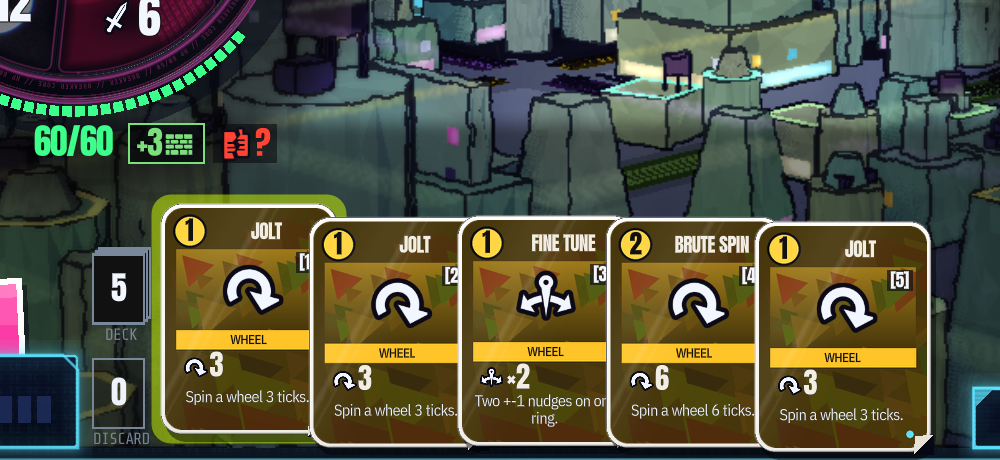
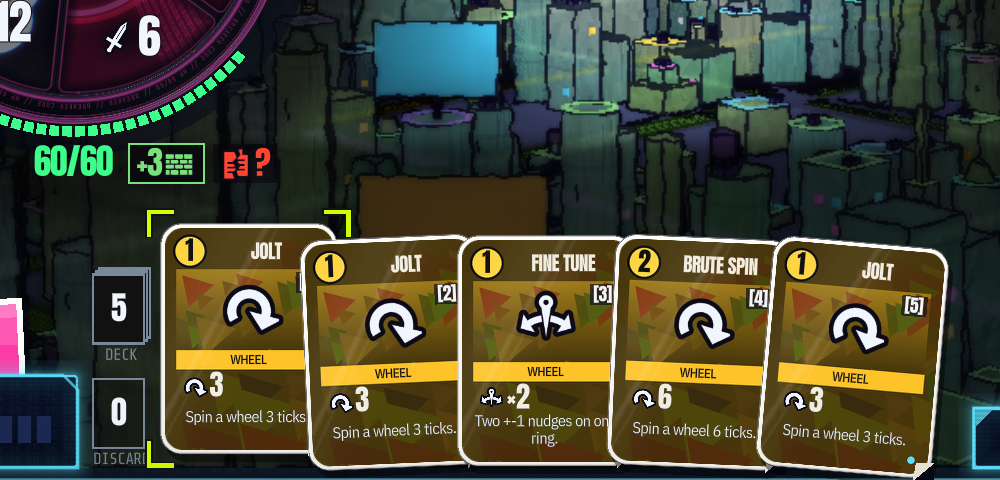
ART-3 combat B2 b: tests, the resend frames and crops, DECISIONS B2 b

diff --git a/docs/DECISIONS.md b/docs/DECISIONS.md
@@ -31,6 +31,54 @@ superseded instead.
   events.
 
 ## Implementation decisions
+### 2026-10-06 — B2 b — combat composition, the art director's fixes
+The art-pass review of B2 (29260839; relayed by the orchestrator). Approved as built: the hub (emblem + accent glow,
+statuses as chips), the hub plate's removal, the wax underlines on the HP / result chips, the boss helix framing,
+EXECUTE behind SEND IT, the Heat chip, D25; perf as is (a far-LOD slice is queued separately). Ruled: the lime brackets
+are focus only; the passive is the emblem + its tooltip. Fixes (sheet `docs/art_review/PARITY/fixes/B2_b.jpg`: Site
+fight start / aiming, boss start, the arena lab's Solace boss and two more Sites; 1:1 1080p `B2_b_site_start.png`,
+`B2_b_site_aiming.png`, `B2_b_boss_start.png`, `B2_crop_hand.png`, `B2_b_crop_hub_site.png`, `B2_crop_hub_player.png`,
+`B2_crop_hub_boss.png`). Tests: `test_b2_combat_composition` (new and changed below), `test_b1a_ui_scrim_pools`.
+- **(1) A Site fight frames its building.** `BackdropCatalog.close_site_shot` (perspective path of `site_shot`): the
+  subject centred between the wheels at `backdrop_site_close_centre` (0.5, 0.45), `backdrop_site_close_height` 0.4 of
+  the frame's height (lock: 35-45 %), at most `backdrop_site_close_max_width` 0.6 wide (`fit_height`: the camera dollies
+  in); a low subject would put the eye on its roof, so the lens narrows instead (`telephoto`: the eye at least
+  `backdrop_site_close_min_eye_bu` 180 BU away, the lens no narrower than 10 degrees), the city standing behind it.
+  The HQ zoom-out (the S-ARENA "HQ in the back") is skipped: it waits for the per-fight backdrops (designer). The
+  subject is measured on the model at the Site's own lot (`CityLayout.site_points`): the Site's **block**, its tallest
+  building within `SITE_SEARCH` lots and every building within `backdrop_site_reach` lots of it
+  (`CombatBackdrop.block_box`; the old "nearest building" was a 1-lot shed 3 to 5 BU tall that read as nothing).
+  It is lit against its street: the focus ellipse takes the block's own shape (`focus_axes`, its half width x
+  `backdrop_site_focus_reach` 1.2), the block lifted x `backdrop_site_focus_lift` 1.5, the rest dimmed by
+  `backdrop_site_focus_dim` 0.55 (an HQ keeps S-ARENA's). The view cut now opens the street to the subject's foot
+  (`backdrop_close_sight_share` 0.2 -> 0). Test: `test_a_site_fight_frames_its_building_centred_between_the_wheels_35_to_45_percent_tall`
+  (every Site of the four corps, the nominal block and three measured shapes: height share 0.35-0.45, or as wide as the
+  gap; centred).
+- **(2) The grade.** (a) The haze goes to the city grade's night-sky violet (`CityConfig.haze`), 18 %. (b) No
+  saturation cap between the wheels: `backdrop_saturation` 0.72 -> 1.0; the 0.6 cap is the wheel pools' (B1a), and
+  emissives are never capped there either (`UiScrimLook.emissive_from` 0.72 / `emissive_to` 0.9 on the pixel's brightest
+  channel: `ui_scrim_pools.gdshader` and its GDScript mirror). (c) Rain: the close-up's look sets `rain_alpha` 0.15
+  (`backdrop_rain_alpha`) and `rain_keep_blacks` 1 (the post pass's streaks scale with the light under them, so they never
+  lift the blacks; `city_post.gdshader`).
+- **(3) The hand.** A container resets a child's own rotation, so B2's fan never showed: the fan is now drawn
+  (`ZineCard.fan_deg` / `fan_turn`, about the card's foot in `face_xform`; focus and hover turn it upright on
+  `card_hover`). Focus is the kit's lime corner brackets round the die-cut (`StyleBoxBrackets`) and the `card_hover`
+  lift (12 canvas px = 18 px at 1080p); the lime-filled plate (`_cc_style`) is gone (bible 2.10).
+- **(4) Hub name** at 12 px (the bible 4.2 caption floor wins), Plex Condensed caps, never under it (two lines first,
+  centred by its own width, never clipped); emblem only under r 90 at 1080p. The lint baseline's wheel_view
+  `font_const` is back to 2.
+- **Lime brackets = focus only.** The target wheel wears them only while the pad / keyboard put focus there
+  (`cycle_target`; a mouse move or click takes it away: `CombatScene._target_focus`), never as a static marker; never
+  while aiming. Test: `test_the_lime_brackets_are_focus_only_never_a_static_marker_or_while_aiming`.
+- Files outside the area: `shaders/city/city_post.gdshader` (rain keeps the blacks), `scripts/city3d/city_view_3d.gd`
+  (a look's rain), `shaders/kit/ui_scrim_pools.gdshader` / `ui_scrim_pools.gd` / `ui_scrim_look.gd` /
+  `ui_scrim_look.tres` (emissives uncapped), `scripts/ui/fx/card_face.gd` (focus brackets for every sticker card),
+  `scripts/city3d/city_config.gd`. Test changed: `test_b1a_ui_scrim_pools` (the capped colour is under the emissive
+  band; an emissive keeps its chroma).
+- **Open question for the art director:** the procedural city has no distinct "Site building", so the subject is the
+  Site's block (its tallest building and its neighbours), lit against a dimmed street; a dense corp (Orbital) still
+  reads busy behind it. Unique per-fight backdrops (queued) are the full fix.
+
 ### 2026-10-06 — B2 — combat composition (integration review)
 Integration review (art-pass `docs/concepts/INTEGRATION_REVIEW/REVIEW.md`) D1, D2, D4, D15, D16, section c (the
 play-result plate, Settings, tutorial, card piles, key hints) and the orchestrator calls Q1 (c) and Q2, bound by the
